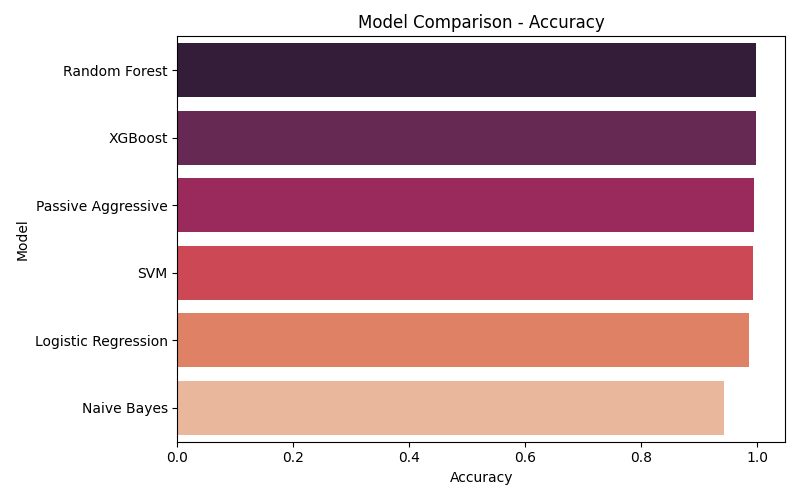
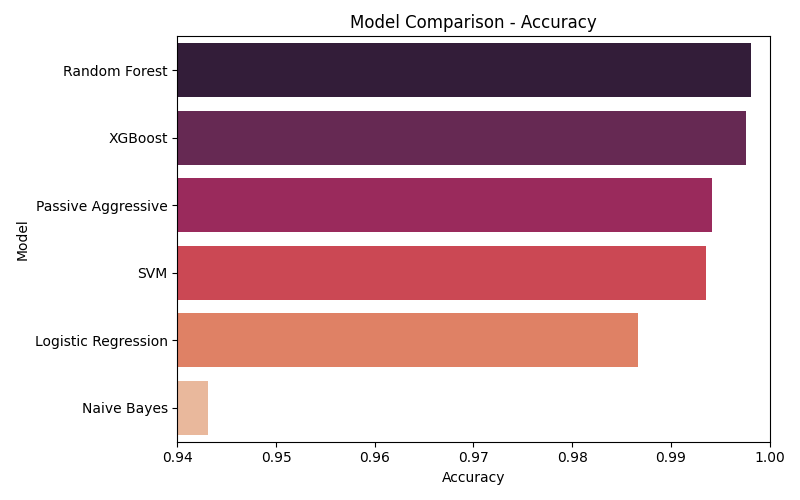
Saved model accuracy and F1 scores to model_scores.txt

diff --git a/Code/model_comparison.py b/Code/model_comparison.py
@@ -58,6 +58,7 @@ df = pd.DataFrame(results).sort_values(by='F1 Score', ascending=False)
 plt.figure(figsize=(8, 5))
 sns.barplot(x="F1 Score", y="Model", data=df, palette="viridis")
 plt.title("Model Comparison - F1 Scores")
+plt.xlim(0.94, 1.00)
 plt.tight_layout()
 plt.savefig(os.path.join(vis_dir, "model_f1_comparison.png"))
 plt.close()
@@ -65,8 +66,23 @@ plt.close()
 plt.figure(figsize=(8, 5))
 sns.barplot(x="Accuracy", y="Model", data=df, palette="rocket")
 plt.title("Model Comparison - Accuracy")
+plt.xlim(0.94, 1.00)
 plt.tight_layout()
 plt.savefig(os.path.join(vis_dir, "model_accuracy_comparison.png"))
 plt.close()
 
 print("Model comparison visualisations saved.")
+
+
+# Save metrics
+docs_dir = os.path.join(script_dir, '../Docs')
+os.makedirs(docs_dir, exist_ok=True)
+
+with open(os.path.join(docs_dir, "model_scores.txt"), "w") as f:
+    f.write("Model Accuracy and F1 Scores\n")
+    f.write("===================================\n")
+    for entry in results:
+        line = f"{entry['Model']}:\n  Accuracy: {entry['Accuracy']:.4f}\n  F1 Score: {entry['F1 Score']:.4f}\n\n"
+        f.write(line)
+
+print("Model scores saved to Docs/model_scores.txt")
